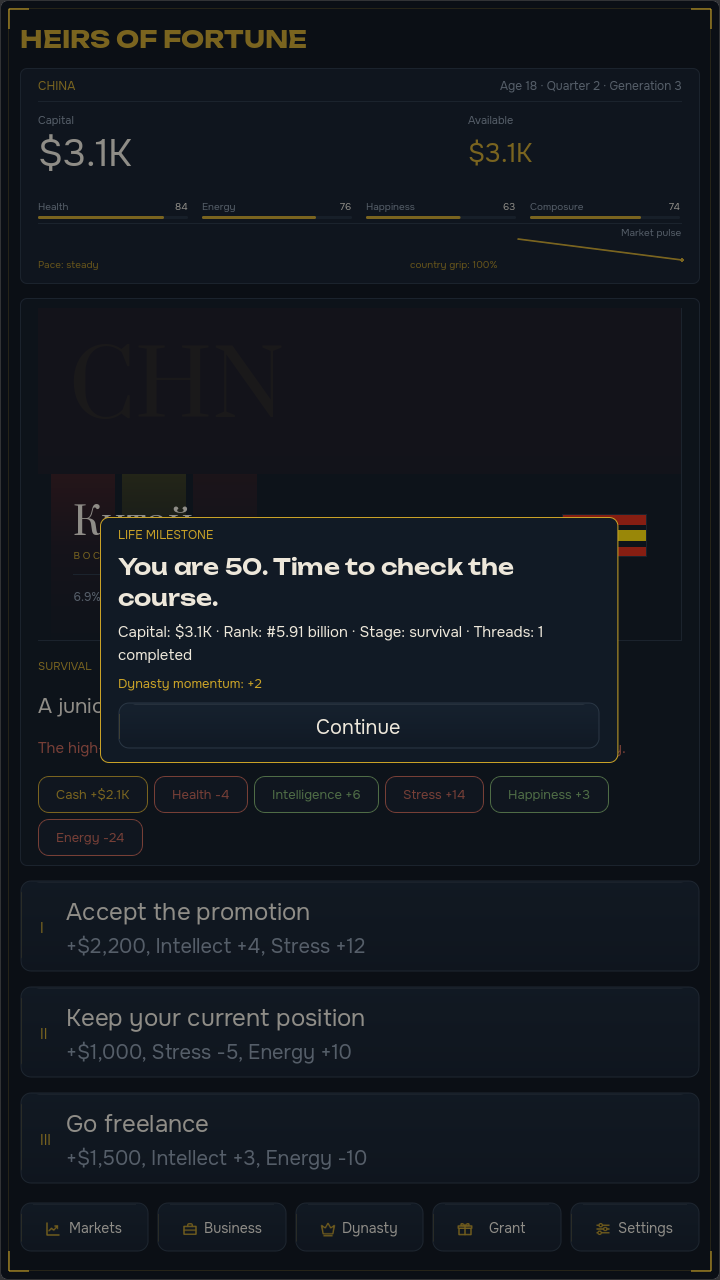
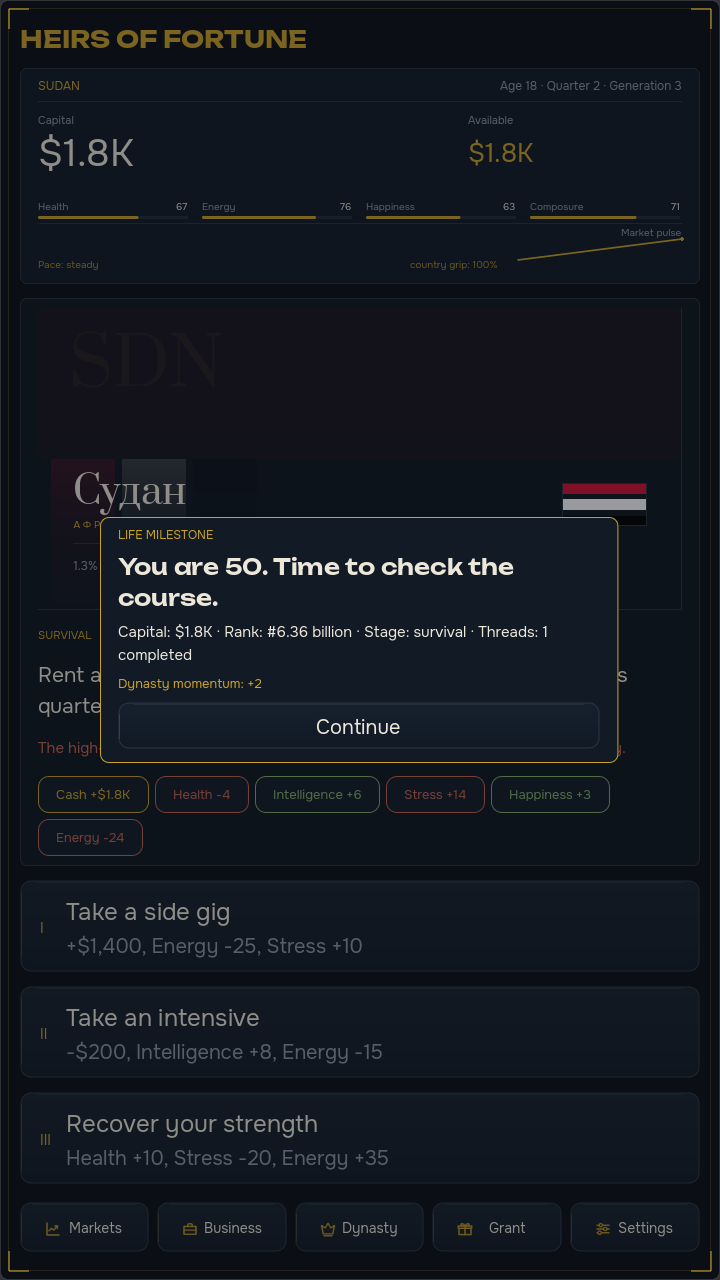
Heirs of Fortune 2.1.0: re-render the presentation evidence at the repaint commit
Galleries, contact sheets, ambition rows and the press set were captured at 4784eed.
Compared pixel by pixel against the previous set, seven frames are byte-identical —
the intro, the credits overlay and all five dynasty sections, which is precisely the
surface the repaint change could have moved. The nine differing frames all start
their difference in the live stat band; reading the crops shows the capture driver
seeded a different birth rather than a different layout, so the variance is recorded
as what it is instead of being counted as a design change.

diff --git a/docs/press/v2.1.0/CAPTIONS.md b/docs/press/v2.1.0/CAPTIONS.md
@@ -1,12 +1,12 @@
 # Heirs of Fortune 2.1.0 press frames
 
-Captured from the shipping presentation source at commit `2ff705dda8eada706599e29ae433ddc656acc356`, the commit the publication gate exports for this release; frames are captured in the dark skin. Frames marked staged are produced by the scripted gallery driver, which seeds dynasty state; they are not claims of natural reachability. No frame is retouched or cropped. The set was re-rendered after the skin switch began repainting every colour it owns; the frames that print live figures differ from the accepted capture in those values and in the intro cover, whose labels now resolve through palette tokens.
+Captured from the shipping presentation source at commit `4784eedbc6eb62508304c844cb29b87bf456f5e8`, the commit the publication gate exports for this release; frames are captured in the dark skin. Frames marked staged are produced by the scripted gallery driver, which seeds dynasty state; they are not claims of natural reachability. No frame is retouched or cropped. The set was re-rendered after the skin switch began repainting every colour it owns; the frames that print live figures differ from the accepted capture in those values and in the intro cover, whose labels now resolve through palette tokens.
 
[12 lines of base64/hex data omitted]
